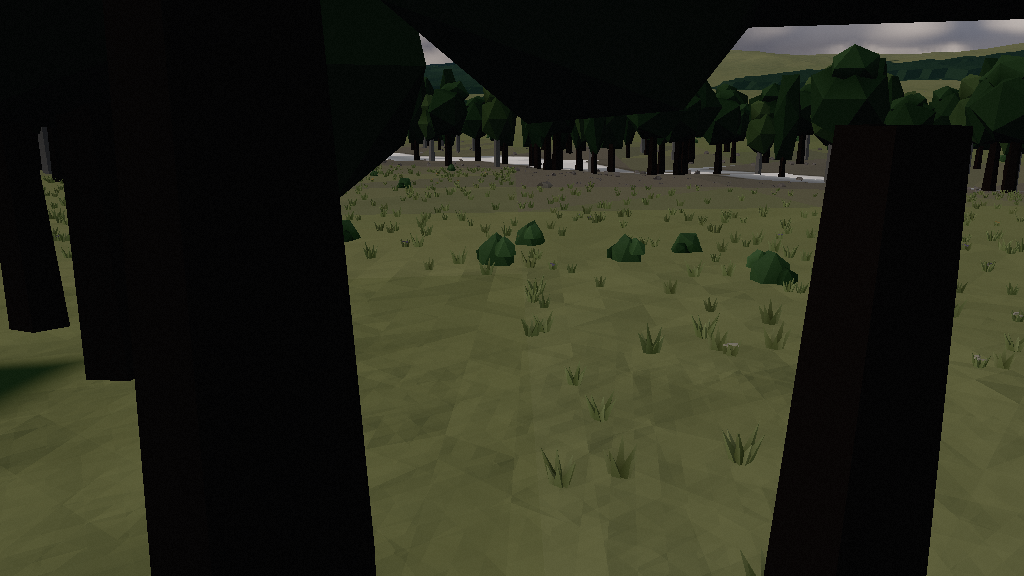
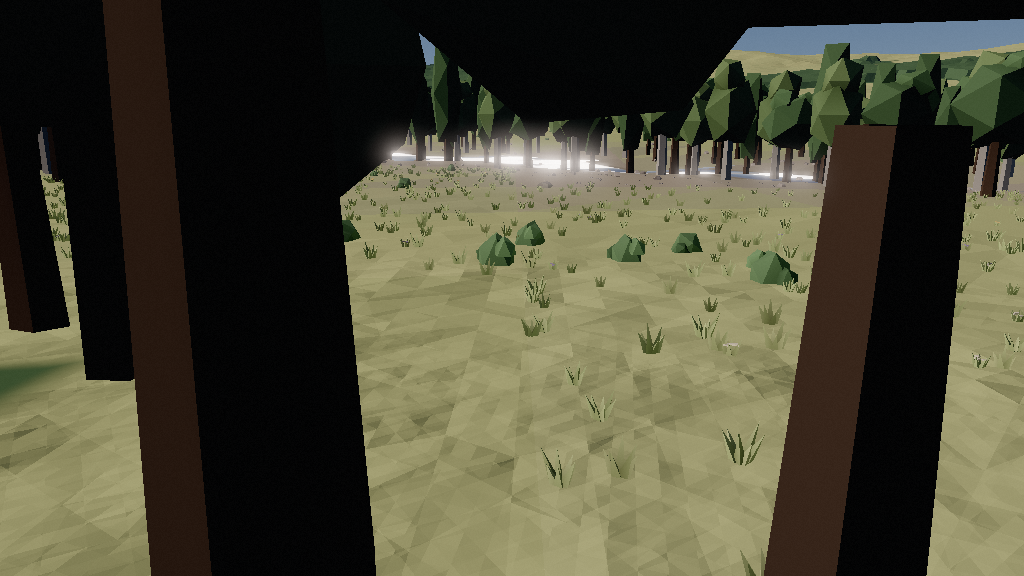
Ground detail: the G3 pictures in clear weather (decision 174)
Claude-Session: https://claude.ai/code/session_01AwcKSBx3mvb9gREaXkr9Gv

diff --git a/docs/decisions.md b/docs/decisions.md
@@ -2796,7 +2796,7 @@ The contact sheet is `docs/reports/screens/ground-g2-kit.png`. `docs/visual-styl
 - **Drawing** (`render/sim/ground/groundCoverLayer.ts`). Chunks within reach are placed nearest first, four rows of cells per slice within 3 ms a frame (a chunk is about 10 ms of CPU), and kept while near. One instanced mesh per kind, at most 15 draws, its items in one interleaved buffer (WebGPU allows eight vertex buffers; one attribute per buffer broke the pipeline); the meshes are refilled from an anchor at the eye when it moves 6 m or turns about 11°, with each kind's items within its range and the view cone. Ranges: 120–150 m for tufts, flowers and pebbles, 220–450 m for tussocks, reeds, small boulders and bushes, 650–800 m for boulders and slabs; items shrink into the ground over the last 30%, and above a kind's range the camera sees none.
 - **Color.** Each item carries the open ground's color at its cell (the tile vertex color with the land shader's moisture tint). The first renders tinted green parts by the full ratio of that color to Part I's grass: on gray alpine ground the blue ratio clamped high and the tufts turned gray-pink. Plants now take the ground's brightness and half its hue. The season browns them by the ground's greenness, not their own, so they never turn where their meadow does not. Rock schemes are a step lighter than the terrain's rock.
 - **Light.** The model frame was a reflection (x × y = −z), which turned every model inside out under front-face culling: bushes showed as hollow shells. It is now a rotation. Faces are lit through a normal bent 45% toward the vertical, plus light bounced from the ground on faces that lean away from the sky: with the sun from the side, a rock's shaded faces had dropped to 5/255.
-- **Previews.** `hover` and `skid` over the meadow target (alpine meadow at seed 1983), `TARGET=gallery` (green meadow by a river with its woods) and `TARGET=peak` (scree): 2,100–6,200 items, 0.06–0.18 M triangles in 6–9 draws. `COVER=0` leaves the cover out; GUI → Tiles → "Ground cover". Pictures: `docs/reports/screens/ground-g3-*.png`.
+- **Previews.** `hover` and `skid` over the meadow target (alpine meadow at seed 1983), `TARGET=gallery` (green meadow by a river with its woods) and `TARGET=peak` (scree): 2,100–6,200 items, 0.06–0.18 M triangles in 6–9 draws. `COVER=0` leaves the cover out; GUI → Tiles → "Ground cover". Pictures: `docs/reports/screens/ground-g3-*.png`, in clear weather (the views' default since; the live weather had put the meadow under an overcast deck, which read as dusk).
 
 **Not done:** talus below cliffs, reeds along river banks, denser verges; ranges by quality tier; a test that level 10 draws throughout the ring; timing on a real GPU; trimming the placement's CPU cost.
 
